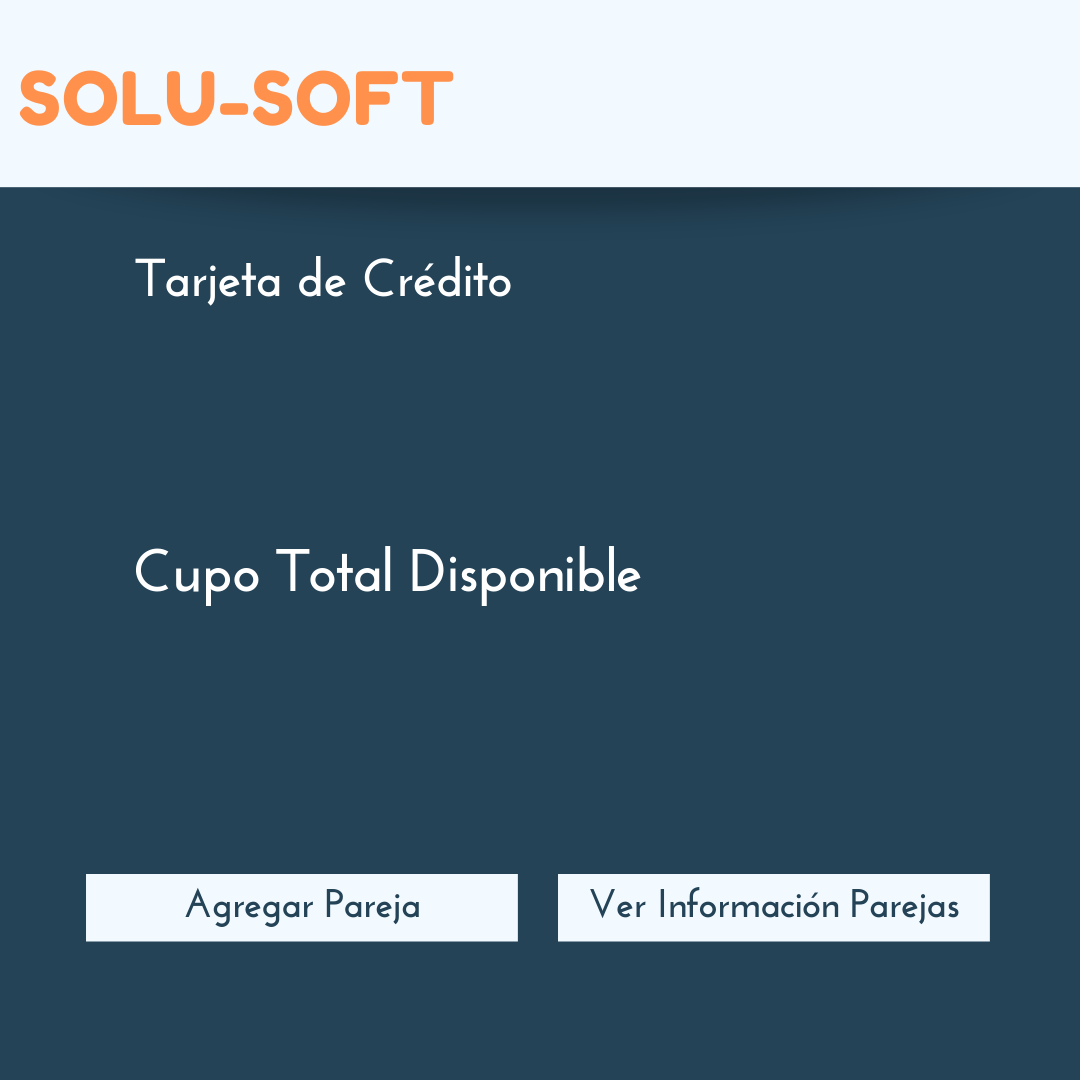
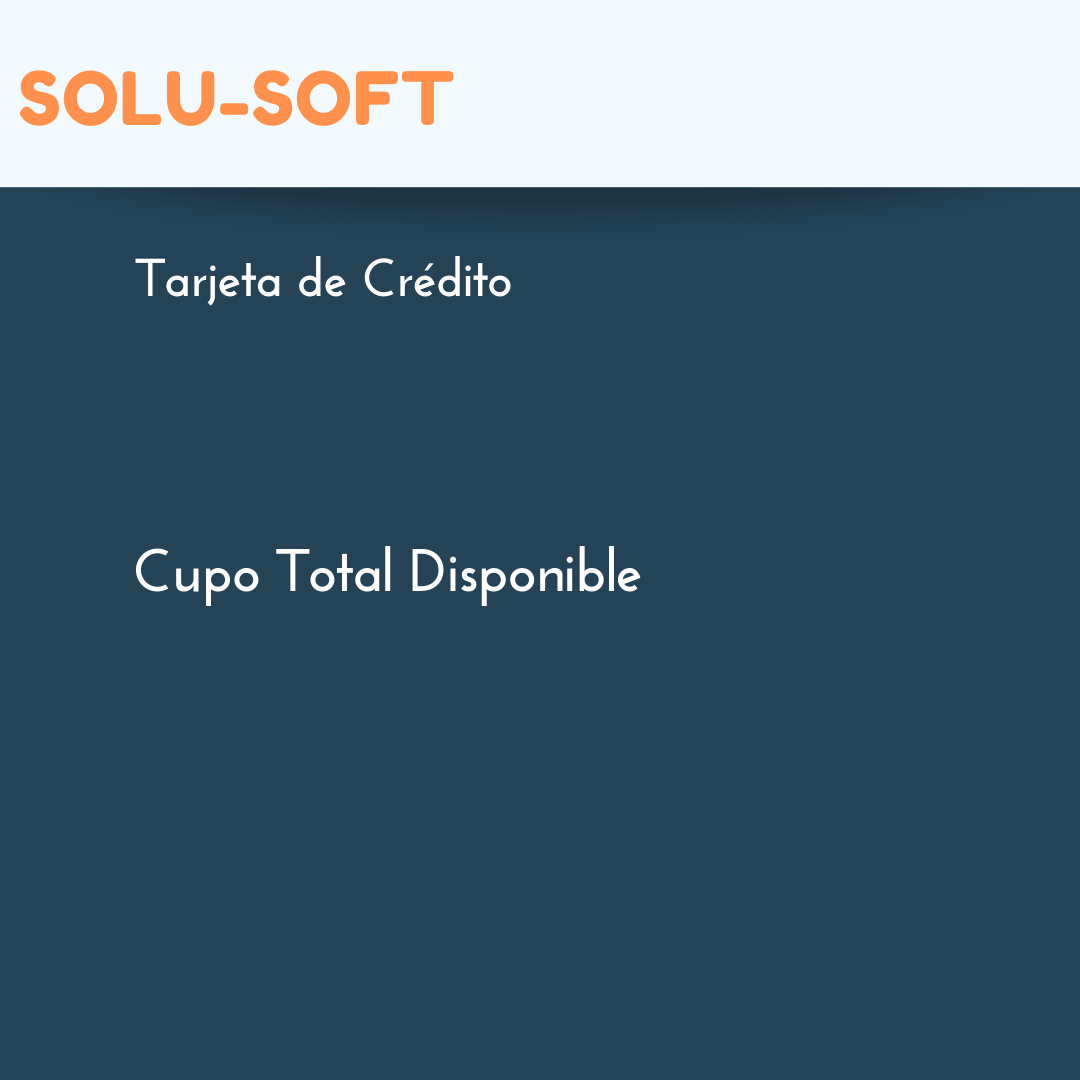
Salvando a Lau 1.0

Changed region(s): [[0.0611, 0.7944, 0.4889, 0.8861], [0.5194, 0.7944, 0.9167, 0.8861]]

diff --git a/src/co/edu/unbosque/view/PanelAdmParejas.java b/src/co/edu/unbosque/view/PanelAdmParejas.java
@@ -17,10 +17,10 @@ public class PanelAdmParejas extends JPanel {
 	private static final long serialVersionUID = 1L;
 
 	private String nombre;
-	private ImageIcon imagen, imagen_ojo_oculto, imagen_ojo;
+	private ImageIcon imagen, imagen_ojo_oculto, imagen_ojo, imagen_boton_agregar, imagen_boton_info;
 	private JButton boton_agregar, boton_info;
 	private JLabel label_tarjeta, label_cupo;
-	private Icon icono_ojo_oculto, icono_ojo;
+	private Icon icono_ojo_oculto, icono_ojo, icono_boton_agregar, icono_boton_info;
 	private JButton boton_ojo_oculto, boton_ojo;
 
 	public PanelAdmParejas(String nombre) {
@@ -61,15 +61,25 @@ public class PanelAdmParejas extends JPanel {
 
 		boton_ojo_oculto = new JButton();
 		boton_ojo_oculto.setBounds(370, 165, 40, 40);
+		boton_ojo_oculto.setBorderPainted(false);
 		add(boton_ojo_oculto);
 
 		imagen_ojo_oculto = new ImageIcon(getClass().getResource("/co/edu/unbosque/imagenes/ojo oculto.png"));
-		icono_ojo_oculto = new ImageIcon(imagen_ojo_oculto.getImage().getScaledInstance(150, 150, Image.SCALE_SMOOTH));
-		boton_ojo_oculto.setHorizontalAlignment(javax.swing.SwingConstants.CENTER);
-		boton_ojo_oculto.setVerticalAlignment(javax.swing.SwingConstants.CENTER);
-		boton_ojo_oculto.setContentAreaFilled(false);
-		boton_ojo_oculto.setBorderPainted(false);
-		boton_ojo_oculto.setIcon(icono_ojo_oculto);
+		icono_ojo_oculto = new ImageIcon(imagen_ojo_oculto.getImage().getScaledInstance(50, 50, Image.SCALE_SMOOTH));
+
+		boton_agregar = new JButton();
+		boton_agregar.setBounds(60, 440, 300, 30);
+		add(boton_agregar);
+
+		boton_info = new JButton();
+		boton_info.setBounds(420, 440, 300, 30);
+		add(boton_info);
+		
+		imagen_boton_agregar = new ImageIcon(getClass().getResource("/co/edu/unbosque/imagenes/boton_agregar_pareja.png"));
+		icono_boton_agregar = new ImageIcon(imagen_boton_agregar.getImage().getScaledInstance(300, 30, Image.SCALE_SMOOTH));
+		
+		imagen_boton_info = new ImageIcon(getClass().getResource("/co/edu/unbosque/imagenes/boton_agregar_pareja.png"));
+		icono_boton_info = new ImageIcon(imagen_boton_info.getImage().getScaledInstance(300, 30, Image.SCALE_SMOOTH));
 
 	}
 
@@ -171,6 +181,38 @@ public class PanelAdmParejas extends JPanel {
 
 	public void setBoton_ojo(JButton boton_ojo) {
 		this.boton_ojo = boton_ojo;
+	}
+
+	public ImageIcon getImagen_boton_agregar() {
+		return imagen_boton_agregar;
+	}
+
+	public void setImagen_boton_agregar(ImageIcon imagen_boton_agregar) {
+		this.imagen_boton_agregar = imagen_boton_agregar;
+	}
+
+	public ImageIcon getImagen_boton_info() {
+		return imagen_boton_info;
+	}
+
+	public void setImagen_boton_info(ImageIcon imagen_boton_info) {
+		this.imagen_boton_info = imagen_boton_info;
+	}
+
+	public Icon getIcono_boton_agregar() {
+		return icono_boton_agregar;
+	}
+
+	public void setIcono_boton_agregar(Icon icono_boton_agregar) {
+		this.icono_boton_agregar = icono_boton_agregar;
+	}
+
+	public Icon getIcono_boton_info() {
+		return icono_boton_info;
+	}
+
+	public void setIcono_boton_info(Icon icono_boton_info) {
+		this.icono_boton_info = icono_boton_info;
 	}
 
 }
